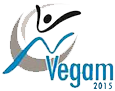
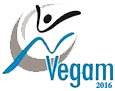
Updated for 2K16

Changed region(s): [[0.8087, 0.9011, 0.9913, 0.989]]

diff --git a/index.html b/index.html
@@ -95,13 +95,17 @@
                 <h3> Home </h3>
                 <h5> <a href="./How.pdf" target="_blank" style="width: 240px; position: fixed; top:26%; right:0%; background-color:#aaa; z-index:100"> How to use this Portal? </a> </h5>
                 <h5> <a href="http://chennaisocialservice.blogspot.in/2014/03/vegam-2014.html" target="_blank" style="width: 240px; position: fixed; top:30%; right:0%; background-color:#aaa; color:#00f; z-index:100"> Glimpse of Vegam 2014 </a></h3> <br/>
-                <h5> <a href="#creditos" target="_blank" name="creditos" style="width: 240px; position: fixed; top:34%; right:0%; background-color:#aaa; color:#00f; z-index:100"> Credits </a></h3> <br/>
+                <h5> <a href="http://chennaisocialservice.blogspot.in/2015/02/vegam-2k15.html" target="_blank" style="width: 240px; position: fixed; top:34%; right:0%; background-color:#aaa; color:#00f; z-index:100"> Glimpse of Vegam 2015 </a></h3> <br/>
+                <h5> <a href="#creditos" target="_blank" name="creditos" style="width: 240px; position: fixed; top:38%; right:0%; background-color:#aaa; color:#00f; z-index:100"> Credits </a></h3> <br/>
             </div>
 
             <!-- Main cotent section that contains all the page controls -->
             <div class="content">
                 <div class="halfColumn" style="border: 2px solid #ccc; padding: 8px; color: #00248F" >
-                    <embed type="application/x-shockwave-flash" src="https://photos.gstatic.com/media/slideshow.swf" width="100%" height="400px" flashvars="host=picasaweb.google.com&hl=en_US&feat=flashalbum&RGB=0x000000&feed=https%3A%2F%2Fpicasaweb.google.com%2Fdata%2Ffeed%2Fapi%2Fuser%2F100029059227283819807%2Falbumid%2F6095961393854178145%3Falt%3Drss%26kind%3Dphoto%26hl%3Den_US" pluginspage="http://www.macromedia.com/go/getflashplayer"></embed>
+                    <!--
+                        <embed type="application/x-shockwave-flash" src="https://photos.gstatic.com/media/slideshow.swf" width="100%" height="400px" flashvars="host=picasaweb.google.com&hl=en_US&feat=flashalbum&RGB=0x000000&feed=https%3A%2F%2Fpicasaweb.google.com%2Fdata%2Ffeed%2Fapi%2Fuser%2F100029059227283819807%2Falbumid%2F6095961393854178145%3Falt%3Drss%26kind%3Dphoto%26hl%3Den_US" pluginspage="http://www.macromedia.com/go/getflashplayer"></embed>
+                    -->
+                    <iframe width="560" height="315" src="https://www.youtube.com/embed/_jDjv7BFmJc" frameborder="0" allowfullscreen></iframe>
                     <div style="background-color:#ccc; border-radius: 5px; padding:6px; font-weight: bold; font-size: 18px; margin-bottom:0px"> Current Status: </div>
                     <div id="schoolnum" style="background-color:#ccc; border-radius: 5px; padding:6px; font-weight: bold; margin-bottom:0px"> Number of Registered Schools:   </div>
                     <div id="studnum" style="background-color:#ccc; border-radius: 5px; padding:6px; font-weight: bold"> Number of Registered Students:   </div> <br/>

diff --git a/schoolRegistration.html b/schoolRegistration.html
@@ -3,7 +3,7 @@
     <head>
         <meta charset="UTF-8">
         <meta name="author" content="Sunil, Priya, Thina, saiy2k">
-        <title> School Registration | Vegam 2k15</title>
+        <title> School Registration | Vegam 2k16</title>
         <link rel="shortcut icon" type="image/x-icon" href="favicon.ico" />
         <link type="text/css" rel="stylesheet" href="vegam.css"/>
         <script type="text/javascript" src="http://ajax.googleapis.com/ajax/libs/jquery/1.7.2/jquery.min.js"></script>
@@ -15,7 +15,7 @@
 
         <!-- Top section contains the Vegam Title and Page Title -->
         <div class="header"> 
-            <h1> <a href="index.html"> Vegam 2k15 </a> </h1>
+            <h1> <a href="index.html"> Vegam 2k16 </a> </h1>
             <h3> School Registration </h3>
         </div>
 

diff --git a/studentRegistration1.html b/studentRegistration1.html
@@ -3,7 +3,7 @@
     <head>
         <meta charset="UTF-8">
         <meta name="author" content="Sunil, Priya, Thina, saiy2k">
-        <title>Student Registration | Vegam 2k15</title>
+        <title>Student Registration | Vegam 2k16</title>
         <link rel="shortcut icon" type="image/x-icon" href="favicon.ico" />
         <link type="text/css" rel="stylesheet" href="vegam.css"/>
         <script src="http://ajax.googleapis.com/ajax/libs/jquery/2.1.1/jquery.min.js"></script>
@@ -22,7 +22,7 @@
 
         <!-- Top section contains the Vegam Title and Page Title -->
         <div class="header"> 
-            <h1> <a href="index.html"> Vegam 2k15 </a> </h1>
+            <h1> <a href="index.html"> Vegam 2k16 </a> </h1>
             <h3> Student Registration </h3>
         </div>
 

diff --git a/admin/admin.js b/admin/admin.js
@@ -7,8 +7,12 @@ var eventParticipantList = null;
 
 $( document ).ready(function() {
 
-    Parse.initialize("BlYcmQmAAvCsDdanA7TJh14KiHrCCqb3z5vPz1Ay", "ovGdJ7e9MJ0wqqcsadYauC9t5aiXvluiuqBrvf3x");
-	
+    //2K15
+    //Parse.initialize("BlYcmQmAAvCsDdanA7TJh14KiHrCCqb3z5vPz1Ay", "ovGdJ7e9MJ0wqqcsadYauC9t5aiXvluiuqBrvf3x");
+
+    //2K16
+    Parse.initialize("xDSozIKPzcsfEtMJSUpqh88nIJ8gyBZOFpmJIjn0", "rqLvdUmxNKcm8o6tLv9aSCabWHxoi4p6ziJ8wDog");
+
     var UserClass = Parse.Object.extend("User");
     var query = new Parse.Query(UserClass);
     query.find({
@@ -31,7 +35,7 @@ $( document ).ready(function() {
         }
     });
 
-    $.blockUI({ message: $('#loginForm') }); 
+    //$.blockUI({ message: $('#loginForm') }); 
 
 });
 

diff --git a/admin/admin.html b/admin/admin.html
@@ -40,7 +40,7 @@
 
             <!-- Top section contains the Vegam Title and Page Title -->
             <div class="header" style="background-image:url('../vegamVenue.jpg'); background-repeat: no-repeat"> 
-                <h1> <a href="index.html"> Vegam 2k15 </a> </h1>
+                <h1> <a href="index.html"> Vegam 2k16 </a> </h1>
                 <h3> Admin Panel </h3>
             </div>
 

diff --git a/adminDisplay.html b/adminDisplay.html
@@ -33,7 +33,7 @@
 
             <!-- Top section contains the Vegam Title and Page Title -->
             <div class="header" style="background-image:url('vegamVenue.jpg'); background-repeat: no-repeat"> 
-                <h1> <a href="index.html"> Vegam 2k15 </a> </h1>
+                <h1> <a href="index.html"> Vegam </a> </h1>
                 <h3> Admin Panel </h3>
             </div>
 
